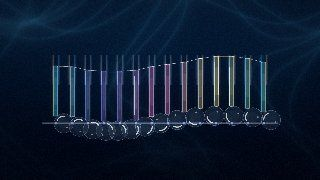
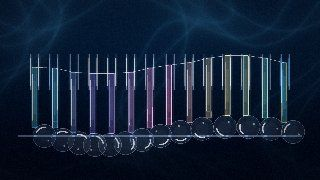
v5 P1 finish: ring-escape, rope-cut and balance-scale stories play out
- ring-escape: retuned gap phases, width and ring speeds; all five balls
  break out by ~8.4 s.
- rope-cut: the light rope links stretched under the heavy balls, so no
  ball reached its cup; an inextensible string now carries each ball and
  is cut with the rope.
- balance-scale: was still swinging at the end; stronger gravity, air
  damping and quicker drops let it tip, sway and settle level.
- bounce-ladder: lower gravity and a smaller toss fill the second half
  and keep every ball in frame.
- Closer cameras for newton-cradle, balance-scale and cam-wave.
- New outcome tests for rope-cut, balance-scale, both domino templates
  and chain-slide; ring-escape now requires all five balls.
- Regenerated 25 thumbnails; plan and log updated.

diff --git a/tests/outcomes.test.ts b/tests/outcomes.test.ts
@@ -63,7 +63,39 @@ describe('every payload arrives', () => {
     expect(grains.filter((b) => b.position.x > 560).length / grains.length).toBeGreaterThan(0.6);
   });
 
-  it('ring-escape: balls break out of all five rings', () => {
-    expect(radius(finale('ring-escape'), 14).filter((b) => b.position.y > 870).length).toBeGreaterThanOrEqual(2);
+  it('rope-cut: each ball flies into the cup placed for it', () => {
+    // Cups stand where a swing's bottom speed and the drop to the rim say each ball lands.
+    const cups = [751, 1121, 1462];
+    const balls = radius(finale('rope-cut'), 20).sort((a, b) => a.position.x - b.position.x);
+    expect(balls.length).toBe(3);
+    balls.forEach((b, i) => {
+      expect(Math.abs(b.position.x - cups[i]), `ball ${i}`).toBeLessThan(50);
+      expect(b.position.y, `ball ${i}`).toBeGreaterThan(900);
+    });
+  });
+
+  it('balance-scale: the beam tips, then comes to rest level', () => {
+    const beam = finale('balance-scale').find((b) => b.bounds.max.x - b.bounds.min.x > 700)!;
+    expect(Math.abs(beam.angle)).toBeLessThan(0.03);
+  });
+
+  it('domino-growth and domino-stairs: every domino falls', () => {
+    for (const id of ['domino-growth', 'domino-stairs']) {
+      const dominoes = finale(id).filter((b) => !b.circleRadius);
+      expect(dominoes.length, id).toBeGreaterThan(20);
+      for (const b of dominoes) expect(Math.abs(b.angle), `${id} #${b.id}`).toBeGreaterThan(1);
+    }
+  });
+
+  it('chain-slide: the whole chain ends up in the basket', () => {
+    const links = radius(finale('chain-slide'), 7);
+    expect(links.length).toBe(45);
+    for (const b of links) expect(b.position.y, `link #${b.id}`).toBeGreaterThan(900);
+  });
+
+  it('ring-escape: every ball breaks out of all five rings', () => {
+    const balls = radius(finale('ring-escape'), 14);
+    expect(balls.length).toBe(5);
+    for (const b of balls) expect(b.position.y, `ball #${b.id}`).toBeGreaterThan(870);
   });
 }, 120000);

diff --git a/src/templates/stacking.ts b/src/templates/stacking.ts
@@ -14,17 +14,18 @@ const balance: SceneDef = {
   endState: 'settle',
   setup(ctx) {
     const { world, r, tl } = ctx;
+    ctx.engine.gravity.scale = 0.002;
     const cx = W / 2;
     const py = 330;
     // The column is scenery: it never touches the beam.
     staticRect(ctx, cx, (py + 990) / 2, 24, 990 - py, 'structure', 0, { collisionFilter: { group: 0, category: 0x0002, mask: 0 } });
     staticRect(ctx, cx, 990, 360, 24, 'ground');
-    const beam = rect(ctx, cx, py + 30, 760, 16, { role: 'debris', hue: 0.5 }, { density: 0.002, frictionAir: 0.006 });
+    const beam = rect(ctx, cx, py + 30, 760, 16, { role: 'debris', hue: 0.5 }, { density: 0.002, frictionAir: 0.02 });
     // The knife-edge sits above the beam's centre of mass, so the balance rights itself.
     pin(ctx, beam, cx, py, { pointB: { x: 0, y: -30 }, length: 0 }, false);
     staticCircle(ctx, cx, py, 9, 'structure');
     const pan = (side: number) => {
-      const p = rect(ctx, cx + side * 360, py + 330, 220, 14, { role: 'structure' }, { density: 0.004, frictionAir: 0.006, friction: 0.9 });
+      const p = rect(ctx, cx + side * 360, py + 330, 220, 14, { role: 'structure' }, { density: 0.004, frictionAir: 0.02, friction: 0.9 });
       const len = Math.hypot(300, 100);
       link(ctx, beam, p, { pointA: { x: side * 360, y: 0 }, pointB: { x: -100, y: 0 }, length: len }, 'structure', 1.2);
       link(ctx, beam, p, { pointA: { x: side * 360, y: 0 }, pointB: { x: 100, y: 0 }, length: len }, 'structure', 1.2);
@@ -39,8 +40,8 @@ const balance: SceneDef = {
     ];
     void world;
     void r;
-    dolly(ctx, cx, 540, 1.04, 1.0);
-    return { entry: { x: cx, y: py }, enter: () => weights.forEach((w, i) => tl.at(tl.t + 0.2 + i * 1.8, () => release(w))) };
+    dolly(ctx, cx, 655, 1.26, 1.2);
+    return { entry: { x: cx, y: py }, enter: () => weights.forEach((w, i) => tl.at(tl.t + 0.2 + i * 1.2, () => release(w))) };
   },
 };
 

diff --git a/src/templates/rope.ts b/src/templates/rope.ts
@@ -137,14 +137,17 @@ const ropeCut: SceneDef = {
       const links = rope(ctx, { x: s.px, y: py }, { x: bob.position.x, y: bob.position.y }, 12, { r: 3, density: 0.0006, collide: false, width: 2, role: 'structure', air: 0.002 });
       for (const l of links) Body.setStatic(l, true);
       const knot = Constraint.create({ bodyA: links[links.length - 1], bodyB: bob, length: 0, stiffness: 1 });
-      Composite.add(world, knot);
+      // The rope does not stretch: a chain of light links cannot hold a ball hundreds of times its
+      // mass on its own, so the rope's full length also ties the ball straight to the pivot.
+      const string = Constraint.create({ pointA: { x: s.px, y: py }, bodyB: bob, length: s.L, stiffness: 1 });
+      Composite.add(world, [knot, string]);
       // Where it will land: speed at the bottom, then a horizontal throw down to the cup's rim.
       const v = Math.sqrt(2 * g * s.L * (1 - Math.cos(s.a)));
       const t = Math.sqrt((2 * (rim - (py + s.L))) / g);
       const cx = s.px + v * t;
       const cup = wallPath(ctx, [{ x: cx - 62, y: rim }, { x: cx - 50, y: rim + 90 }, { x: cx + 50, y: rim + 90 }, { x: cx + 62, y: rim }], 12, 'structure', { friction: 0.6 });
       cushion(ctx, cup, 0.02);
-      return { ...s, ball: bob, links, knot, cut: false, cup };
+      return { ...s, ball: bob, links, knot, string, cut: false, cup };
     });
     r.drawBack((gr) => {
       gr.roundRect(200, py - 14, 720, 12, 6).fill({ color: ctx.style.structure, alpha: 0.7 });
@@ -167,6 +170,7 @@ const ropeCut: SceneDef = {
           // Snip: at the lowest point the ball is moving exactly horizontally.
           q.cut = true;
           cut(ctx, q.knot);
+          cut(ctx, q.string);
           ctx.style.impact(r.fx, q.ball.position.x, q.ball.position.y - 20, 0.5, ctx.style.accentColor);
         }
       },

diff --git a/src/templates/collision.ts b/src/templates/collision.ts
@@ -44,7 +44,7 @@ const cradle: SceneDef = {
       g.rect(right - 14, pivotY - 10, 8, len + rad + 230).fill({ color: c, alpha: 0.35 });
       g.roundRect(left - 40, pivotY + len + rad + 210, right - left + 80, 16, 6).fill({ color: c, alpha: 0.5 });
     });
-    dolly(ctx, W / 2, 530, 1.0, 1.08);
+    dolly(ctx, W / 2, 565, 1.3, 1.38);
     return { entry: { x: W / 2, y: pivotY + len }, enter: () => release(lifted) };
   },
 };
@@ -196,6 +196,8 @@ const restitution: SceneDef = {
   canDrop: true,
   setup(ctx) {
     const { r } = ctx;
+    // Moon-ish gravity slows every bounce, so the lively balls are still arcing as the clip ends.
+    ctx.engine.gravity.scale = 0.0005;
     const n = 11;
     const gy = 860;
     const fl = ground(ctx, gy, 6000);
@@ -203,7 +205,7 @@ const restitution: SceneDef = {
     const balls: MBody[] = [];
     for (let i = 0; i < n; i++) {
       const e = i / (n - 1);
-      balls.push(circle(ctx, 280 + i * 136, 190, 20, { role: 'hero', hue: e, trail: 3.5, weight: 1 }, { isStatic: true, restitution: e * 0.995, friction: 0, frictionAir: 0, frictionStatic: 0, slop: 0.01 }));
+      balls.push(circle(ctx, 240 + i * 136, 190, 20, { role: 'hero', hue: e, trail: 3.5, weight: 1 }, { isStatic: true, restitution: e * 0.995, friction: 0, frictionAir: 0, frictionStatic: 0, slop: 0.01 }));
     }
     r.impactMin = 3;
     dolly(ctx, W / 2, 540, 1.0, 0.96, W / 2 + 40);
@@ -214,7 +216,7 @@ const restitution: SceneDef = {
         for (const b of balls) {
           release(b);
           // A gentle sideways toss so each bounce draws an arc.
-          Body.setVelocity(b, { x: 0.9, y: 0 });
+          Body.setVelocity(b, { x: 0.4, y: 0 });
         }
       },
     };

diff --git a/src/templates/pattern.ts b/src/templates/pattern.ts
@@ -204,12 +204,14 @@ const ringEscape: SceneDef = {
     engine.gravity.scale = 0.0016;
     const C = { x: W / 2, y: 470 };
     const radii = [112, 178, 244, 310, 376];
-    const speeds = [1.7, -1.35, 1.1, -0.92, 0.8];
+    const speeds = [2.21, -1.755, 1.43, -1.196, 1.04];
     const thick = 12;
     const rings = radii.map((R, i) => {
-      // A gap a little over three ball-widths wide.
-      const gap = 104 / R;
-      const start = Math.PI / 2 + 1.3 + i * 2.35;
+      // A gap about four ball-widths wide.
+      const gap = 120 / R;
+      // The gaps' starting phases are chosen so that each ring's gap comes round soon after the balls
+      // have settled into it: all five break out around 8 s, leaving time to watch them land.
+      const start = Math.PI / 2 + 4.71 + i * 3;
       const n = Math.round(((Math.PI * 2 - gap) * R) / 24);
       const seg = ((Math.PI * 2 - gap) * R) / n;
       const parts: MBody[] = [];
@@ -227,7 +229,6 @@ const ringEscape: SceneDef = {
       r.add(world, body, { role: 'structure', hidden: true });
       return { body, R, gap, start, glow: 0, w: speeds[i], look: r.look('hero', i / (radii.length - 1), 1) };
     });
-    // A floor and walls to catch the escapees.
     // A shallow tray catches the escapees.
     const fl = wallPath(ctx, [{ x: 150, y: 880 }, { x: 210, y: 1010 }, { x: 1710, y: 1010 }, { x: 1770, y: 880 }], 16, 'structure', { friction: 0.6 });
     const balls: MBody[] = [];

diff --git a/src/templates/machine.ts b/src/templates/machine.ts
@@ -301,7 +301,7 @@ const camWave: SceneDef = {
     });
     let w = 0;
     let on = false;
-    dolly(ctx, W / 2, 600, 1.0, 1.05);
+    dolly(ctx, W / 2, 570, 1.2, 1.26);
     return {
       entry: { x: W / 2, y: 600 },
       enter: () => (on = true),

diff --git a/docs/v5-plan.md b/docs/v5-plan.md
@@ -43,27 +43,25 @@ creators who compose and export.
 | Phase | Scope | Status |
 | :--- | :--- | :--- |
 | P0 | Bug audit, stability, frame-time spikes, calm starts, headless physics suite | **Done** (`482cb60`) |
-| P1 | Template physics & composition polish | **Mostly done** (`4aea02a` + CI fix); remaining items below |
+| P1 | Template physics & composition polish | **Done** (`4aea02a`, CI fix, P1 finish) |
 | P2 | Looks, impact feedback, backdrops & segues | Not started |
 | P3 | UI art & interaction polish, thumbnails | Not started (thumbnails kept in sync so far) |
 
 ## Next up
 
-### P1 remainder
+### P1 remainder — done
 
-- [ ] **Trail-driven templates, checked live.** Contact sheets (`director.snapshot`) do not draw trails, so
-      these were not reviewed properly: `kepler`, `binary-star`, `three-body`, `stadium-billiards`,
-      `harmonograph`, `bounce-ladder`, `projectile-fan`, `double-pendulum` (its trail looked like a web of
-      straight chords in snapshots; confirm whether that is only a snapshot artefact).
-- [ ] **ring-escape**: about 3 of 5 balls escape by the end; aim for all 5 with the climax before ~80 %
-      of the clip (try ring segment count, thickness, a slight ball radius change).
-- [ ] **bounce-ladder**: action is over by ~4 s of 11 s; consider a fuller second half.
-- [ ] **Small subjects**: `newton-cradle`, `balance-scale`, `cam-wave` occupy a small part of the frame
-      (`REVIEW=1` report flags SMALL); consider a closer camera.
-- [ ] **Mass/material pass per family** (heavy things feel heavy, soft bodies rebound, ropes hang and whip
-      naturally) — not yet done systematically. Watch for Matter's friction quirk (see README
-      "Authoring Notes").
-- [ ] Add an `outcomes.test.ts` case for every template whose story has a checkable end state.
+- [x] Trail-driven templates checked live (Playwright, real rendering): all read correctly. The
+      double-pendulum "straight chords" were a snapshot artefact; stadium-billiards' straight chords are
+      the physics.
+- [x] ring-escape: all 5 balls out by ~8.4 s of 14 (gap phases, width and ring speeds retuned).
+- [x] bounce-ladder: lower gravity and a smaller toss; the lively balls still arc at the end, none leave frame.
+- [x] Small subjects reframed: newton-cradle, balance-scale, cam-wave.
+- [x] Mass/material pass: rope-cut's light links stretched under the heavy balls (none reached its cup) —
+      now an inextensible string carries each ball; balance-scale was still swinging at the end — now
+      tips, sways and settles level. Rope and soft families reviewed live, no other defects found.
+- [x] `outcomes.test.ts`: rope-cut, balance-scale, domino-growth, domino-stairs, chain-slide added;
+      ring-escape tightened to all 5 balls.
 
 ### P2 — Looks, feedback, segues
 
@@ -113,3 +111,7 @@ creators who compose and export.
   and crept for other seeds (shows use random seeds). Lengthened presettles (kaleidoscope, hourglass,
   size-sieve), packed rotating-drum's grains without overlap (and split its colours so the mixing
   reads), and made `physics.test.ts` check the calm start for seeds 8 and 11 as well.
+- **2026-11-25 · P1 finish** — ring-escape all 5 out; bounce-ladder fuller second half; closer cameras
+  for newton-cradle, balance-scale, cam-wave; fixed rope-cut (stretching ropes, balls missed every cup)
+  and balance-scale (never settled); five new outcome tests; regenerated 25 thumbnails. Note: run the
+  Playwright CLI from outside the repo, or it writes `.playwright-cli/` logs into the working tree.
